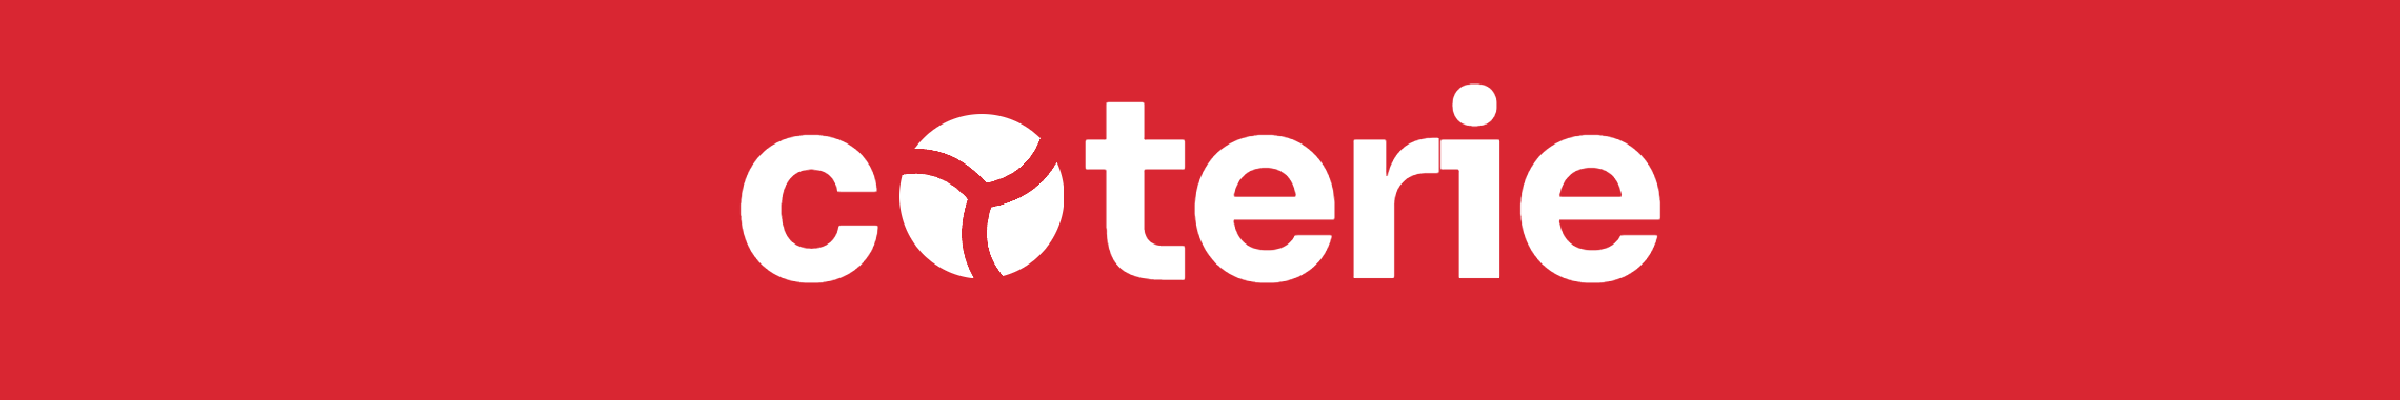
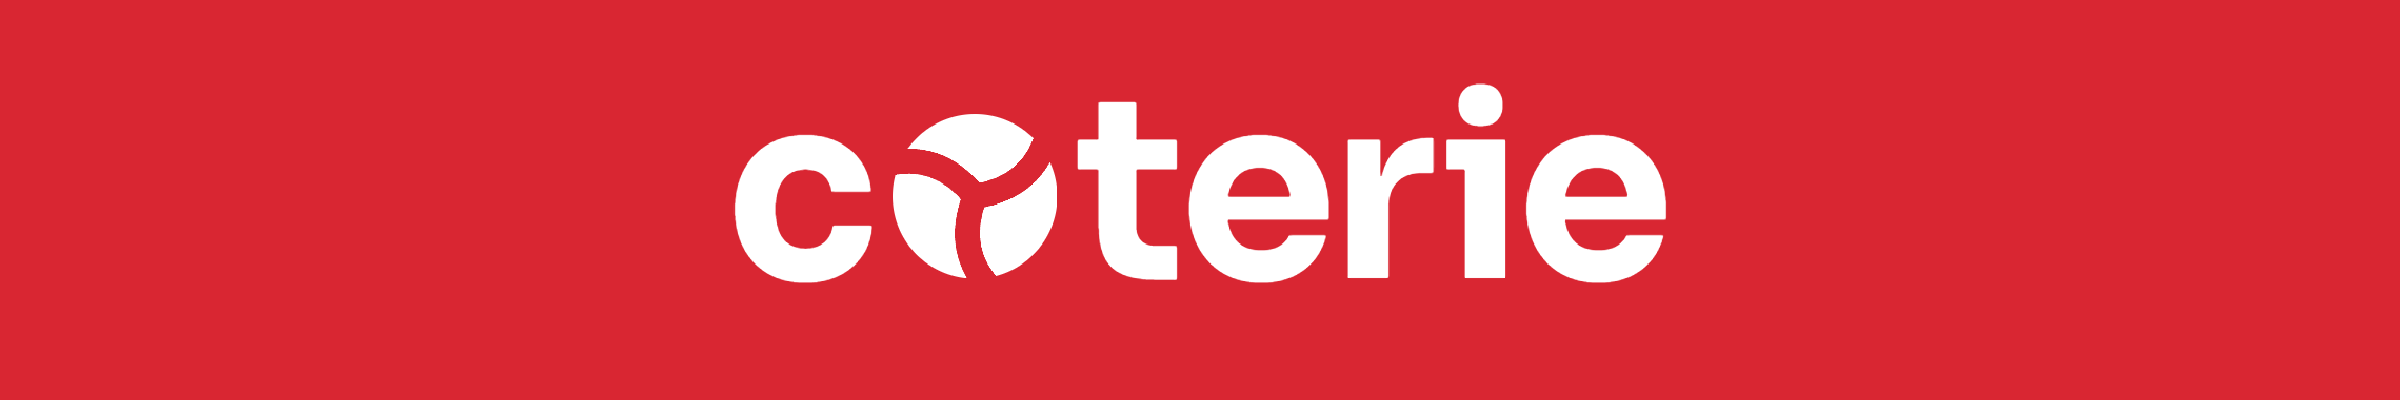
Open the r/i clearance in the kerned cover wordmark
The r arm passes within 1px of the i dot in the source artwork, while
everywhere else those two letters sit 62px apart - so only the top of
the pair looked wrong. normalizeGaps now both closes and opens interior
clearances into a 12-20px band: 27.28.10.19.1.20 becomes
20.20.12.19.12.20.

Two things this needed. Kerning now runs before the knockout, because
once the seams are transparent the ball is three shapes and a gap-finder
prises it apart at the seams. And segmentation uses solid ink only,
alpha over 128, because the r and i anti-aliased edges touch and a
permissive threshold reads them as a single glyph. Also fixed a range
that could walk off the end of a wide gap into the next glyph.

diff --git a/PROJECT_STATE.md b/PROJECT_STATE.md
@@ -217,15 +217,25 @@ Ordered by priority. Update status inline as these move.
      banner now centres on the ink **mass centroid** vertically (a 17px lift at
      200px tall) and on the bounding box horizontally. Wordmark also grew from
      44% → 50% of the banner height.
-  2. *Kerning around the ball.* The source artwork spaces the ball-as-o at 27–28px
-     (at 1056px wide) where ordinary letter gaps are 10–20px. It was kerned for a
-     solid red disc; knocking it out breaks the silhouette where the seams reach
-     the edge, so the ball reads narrower than it was spaced for and the word
-     splits into "c ● terie". New `tightenGaps()` closes any interior gap wider
-     than 20px, dropping the surplus from the middle so both glyph edges keep
-     equal air. Shipped as a **separate `-kerned` file** rather than applied to
-     the only copy: re-kerning the wordmark is a brand decision, and Jabez is
-     redrawing the logo anyway.
+  2. *Uneven letter clearances.* Measured on the artwork at 1056px wide, the
+     clearances are `c→ball 27 · ball→t 28 · t→e 10 · e→r 19 · r→i 1 · i→e 20`.
+     Two faults in opposite directions: the ball was kerned as a solid red disc,
+     so knocking it out (seams break the silhouette) leaves it reading narrower
+     than the 27–28px it was given and the word splits into three pieces; and
+     **the r's arm passes within 1px of the i's dot** — everywhere else those two
+     letters are 62px apart, which is why only the top of the pair looked wrong.
+     `normalizeGaps()` drops or inserts empty columns so every interior clearance
+     lands in [12, 20]: `20·20·12·19·12·20`. Shipped as a **separate `-kerned`
+     file** rather than applied to the only copy: re-kerning the wordmark is a
+     brand decision, and Jabez is redrawing the logo anyway.
+- Two traps worth remembering if this is touched again. **Kern before knocking
+  out**: once the seams are transparent the ball is three separate shapes, and a
+  gap-finder prises it apart at the seams. And **segment on solid ink**
+  (alpha > 128, not > 8): at the r/i pair the anti-aliased edges touch, so a
+  permissive threshold reads them as one glyph and the gap that needs opening
+  isn't there to find. A first cut of the column-dropping range could also walk
+  past the end of a wide run and eat into the next glyph — it now takes the middle
+  `surplus` columns, and skips the runs at the image edges entirely.
 
 **Tone-of-voice pass across the app + brand record (2026-07-30):**
 - Trigger: Aidan updated the designer brief (`Jabez (App design) (1).docx`, in
